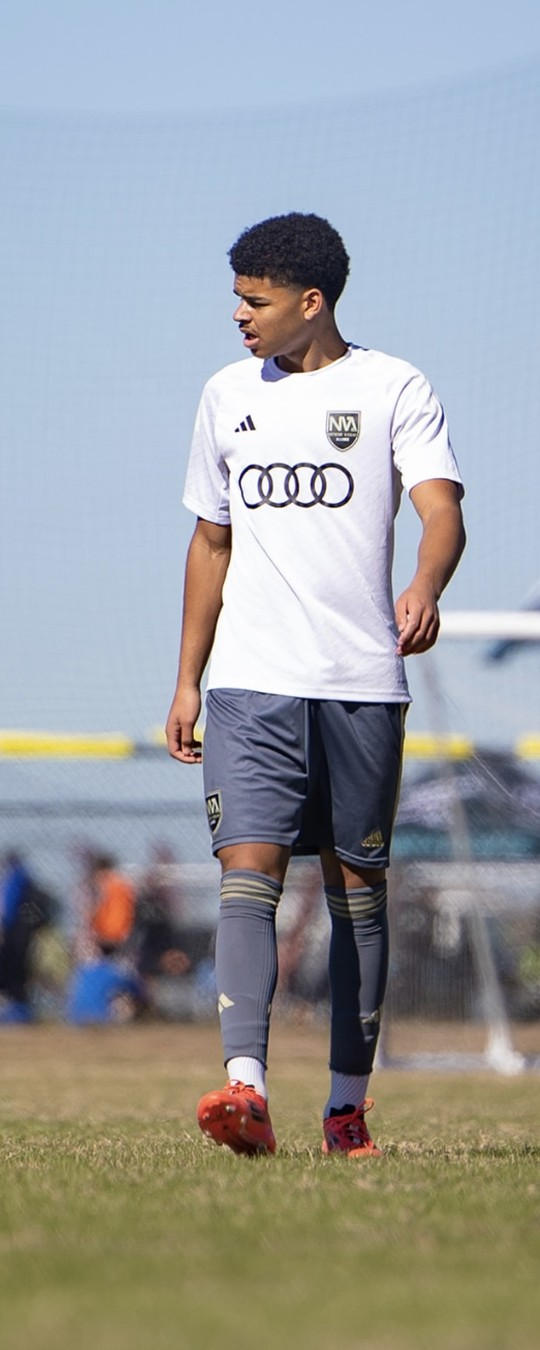
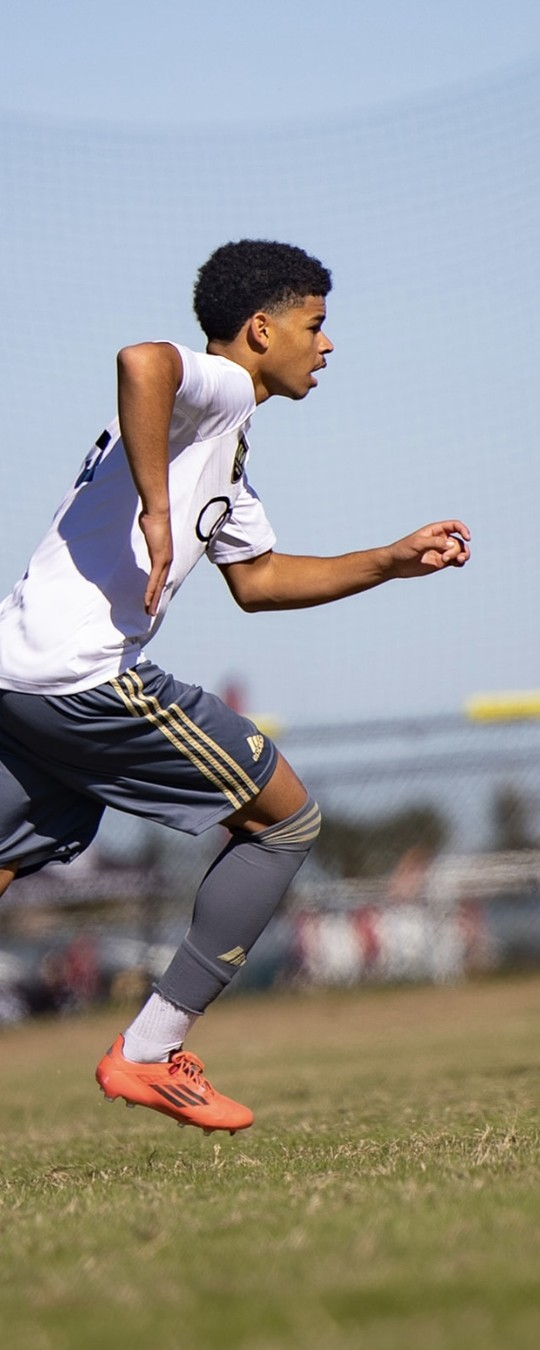
Offer carousel cover: Coach Yinka's sprint photo mirrored toward Gary
Claude-Session: https://claude.ai/code/session_011JsCTTjCbUkHbTuWTKQSXJ

diff --git a/marketing/announcement/strive-elite-offer-post.md b/marketing/announcement/strive-elite-offer-post.md
@@ -80,7 +80,8 @@ arrive and are then rebuilt. No stock, no generated images, no alumni.
    what would we do? Then we put all of it into one program. Strive
    Elite." Eyebrow "For ECNL and MLS NEXT players", "Swipe to see
    inside". Two-panel photo cover: Coach Yinka (left, daylight, the NVA
-   kit) and Coach Gary (right, night, SC Fortuna Koln number 8), his own
+   kit, his sprint photo MIRRORED on his word so he faces Gary; the
+   crest and any lettering read reversed as a result) and Coach Gary (right, night, SC Fortuna Koln number 8), his own
    photos sent Nov 4 (photos/yinka.jpg, photos/gary.jpg, 540x1350 halves
    cropped so both faces sit level), a gold hairline between them, one
    grade and one gradient over both, COACH YINKA / COACH GARY tags. The earlier promise

diff --git a/CLAUDE.md b/CLAUDE.md
@@ -3202,6 +3202,13 @@ commit.
       (yinka.jpg, gary.jpg). Preview strip re-rendered. Sent. Slides 2
       and 6 still carry the Oct 4 shoot photos until his group, camp
       and story photos arrive.
+      THEN (Coach Yinka sent a third photo, himself sprinting in the
+      NVA kit, facing left: "Rotate my picture so I'm looking in
+      Gary's direction"): the left panel is now that photo MIRRORED so
+      he runs toward Gary across the gold line, cropped with his face
+      level with Gary's. Flagged once: a mirror reverses the crest and
+      the adidas mark on him (the NVA sock lettering is below the crop).
+      photos/yinka.jpg replaced; preview strip re-rendered. Sent.
 
 ## Growth target (stamped Sept 19, Coach Yinka's own call)
 
